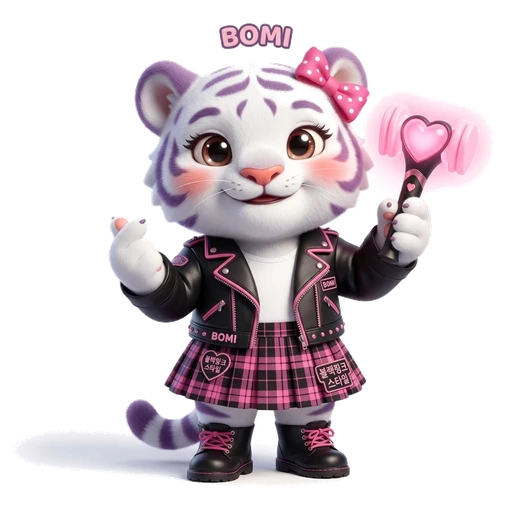
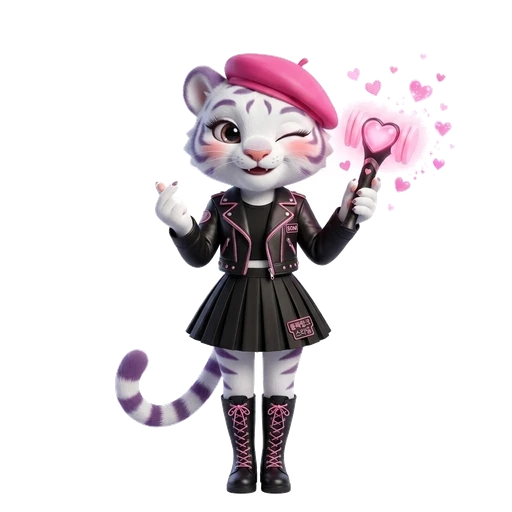
feat(mascot): refine Bomi visual identity to feminine chic younger sister with beret and wink

diff --git a/scripts/process-mascots.js b/scripts/process-mascots.js
@@ -9,8 +9,9 @@ if (!fs.existsSync(TARGET_DIR)) {
 
 const IMAGES = [
   {
-    src: 'C:/Users/USER/.gemini/antigravity/brain/b1576419-706f-4a54-8d0c-3708533ac48a/bomi_blackpink_1791417561436.jpg',
+    src: 'C:/Users/USER/.gemini/antigravity/brain/b1576419-706f-4a54-8d0c-3708533ac48a/bomi_sister_cute_beret_1791419497211.jpg',
     name: 'bomi-blackpink',
+    clearTop: 102, // Clear floating text header
   },
   {
     src: 'C:/Users/USER/.gemini/antigravity/brain/b1576419-706f-4a54-8d0c-3708533ac48a/hobi_bts_1791417580092.jpg',
@@ -31,6 +32,18 @@ async function processImage(item) {
   const width = info.width;
   const height = info.height;
   const channels = info.channels;
+
+  // If item has clearTop, whitewash any text in top area before flood filling
+  if (item.clearTop) {
+    for (let y = 0; y < item.clearTop; y++) {
+      for (let x = 0; x < width; x++) {
+        const idx = (y * width + x) * channels;
+        data[idx] = 255;
+        data[idx + 1] = 255;
+        data[idx + 2] = 255;
+      }
+    }
+  }
 
   // Simple flood or color threshold to make near-white background transparent
   // We can scan from outer edges to avoid removing whites inside the eyes/body
